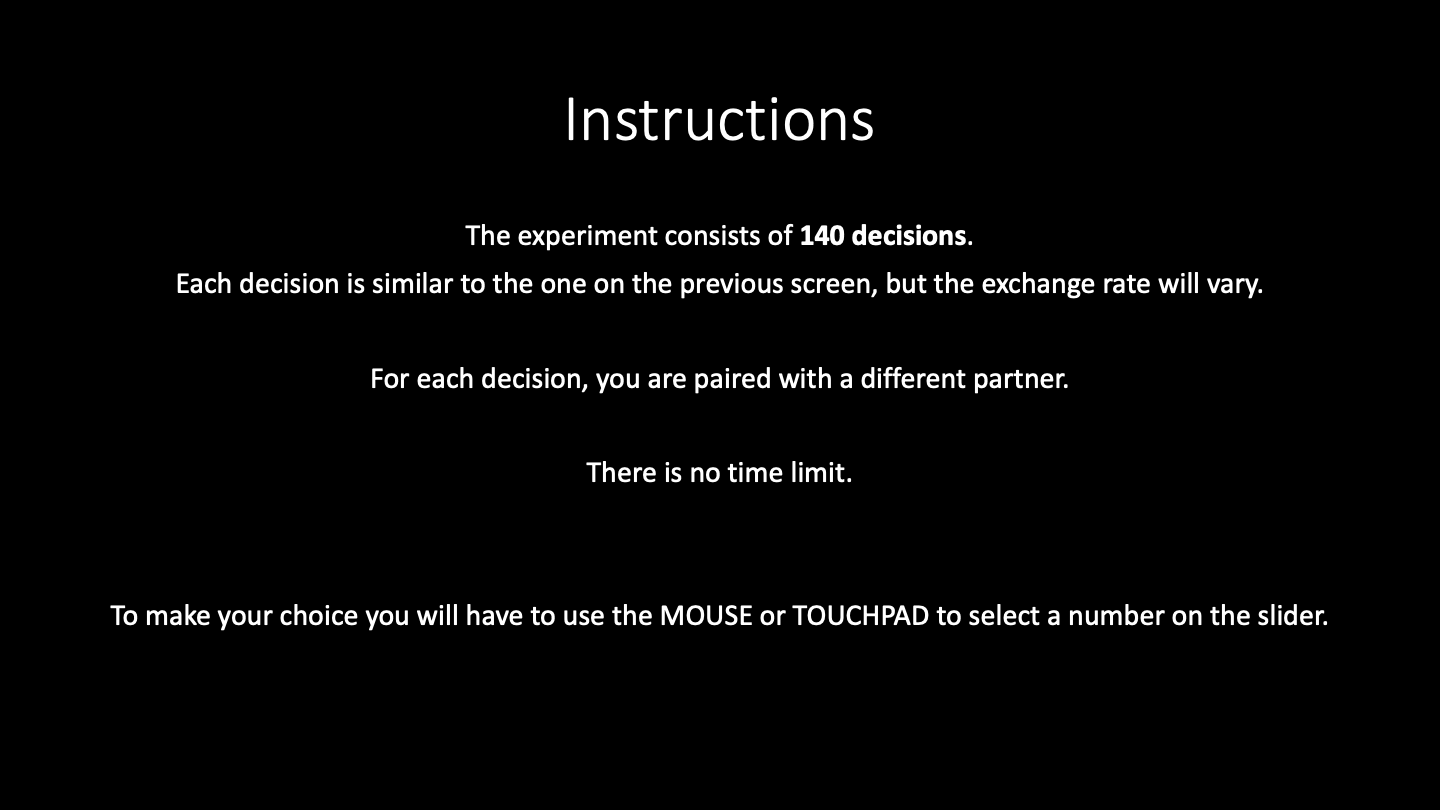
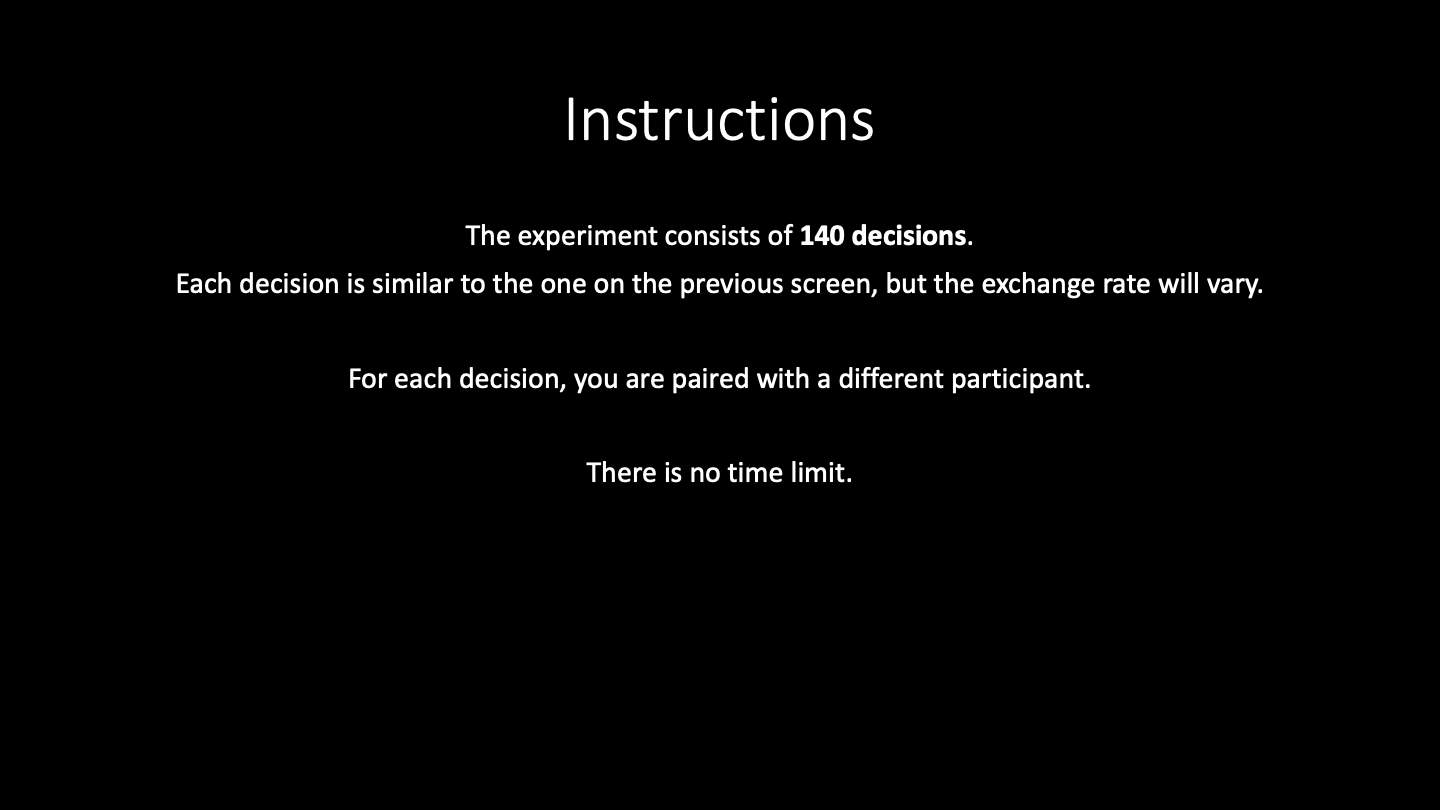
last changes

Changed region(s): [[0.0625, 0.7407, 0.9375, 0.7716], [0.25, 0.4321, 0.75, 0.4938]]

diff --git a/public/js/dictator_game_unblocked.js b/public/js/dictator_game_unblocked.js
@@ -6,6 +6,11 @@
 // (done) new slider
 // (done) change index consent form
 // (done) change exchange rate in the code and in the instructions
+// (done) remove zelle from payment option
+// (done) replace partner with other participant in instructions
+// (done) get rid of sliderbar answer repetitions in instructions
+// (done) make slider something you have to first click on to advance
+
 
 /***********************/
 /******** Design *******/
@@ -201,8 +206,7 @@ var paymentInfo = {
 };
 
 var payment_options = ["Venmo",
-                        "Paypal",
-                        "Zelle"];
+                        "Paypal"];
 
 var payment_data = [];
                         
@@ -468,6 +472,7 @@ var game_choice = {
             er_interval_top_block: () => ExpDesign[choice_count].er_top_block,
             labels_top: () => ExpDesign[choice_count].other_labels_trial,  // other 
             labels_bottom: () => ExpDesign[choice_count].self_labels_trial, // self
+            require_movement: true,
             prompt: `<p id = "prompt-question"> How much do you want to give? </p>`,
             on_finish: function (data) {
                 choice_data.push(data);
